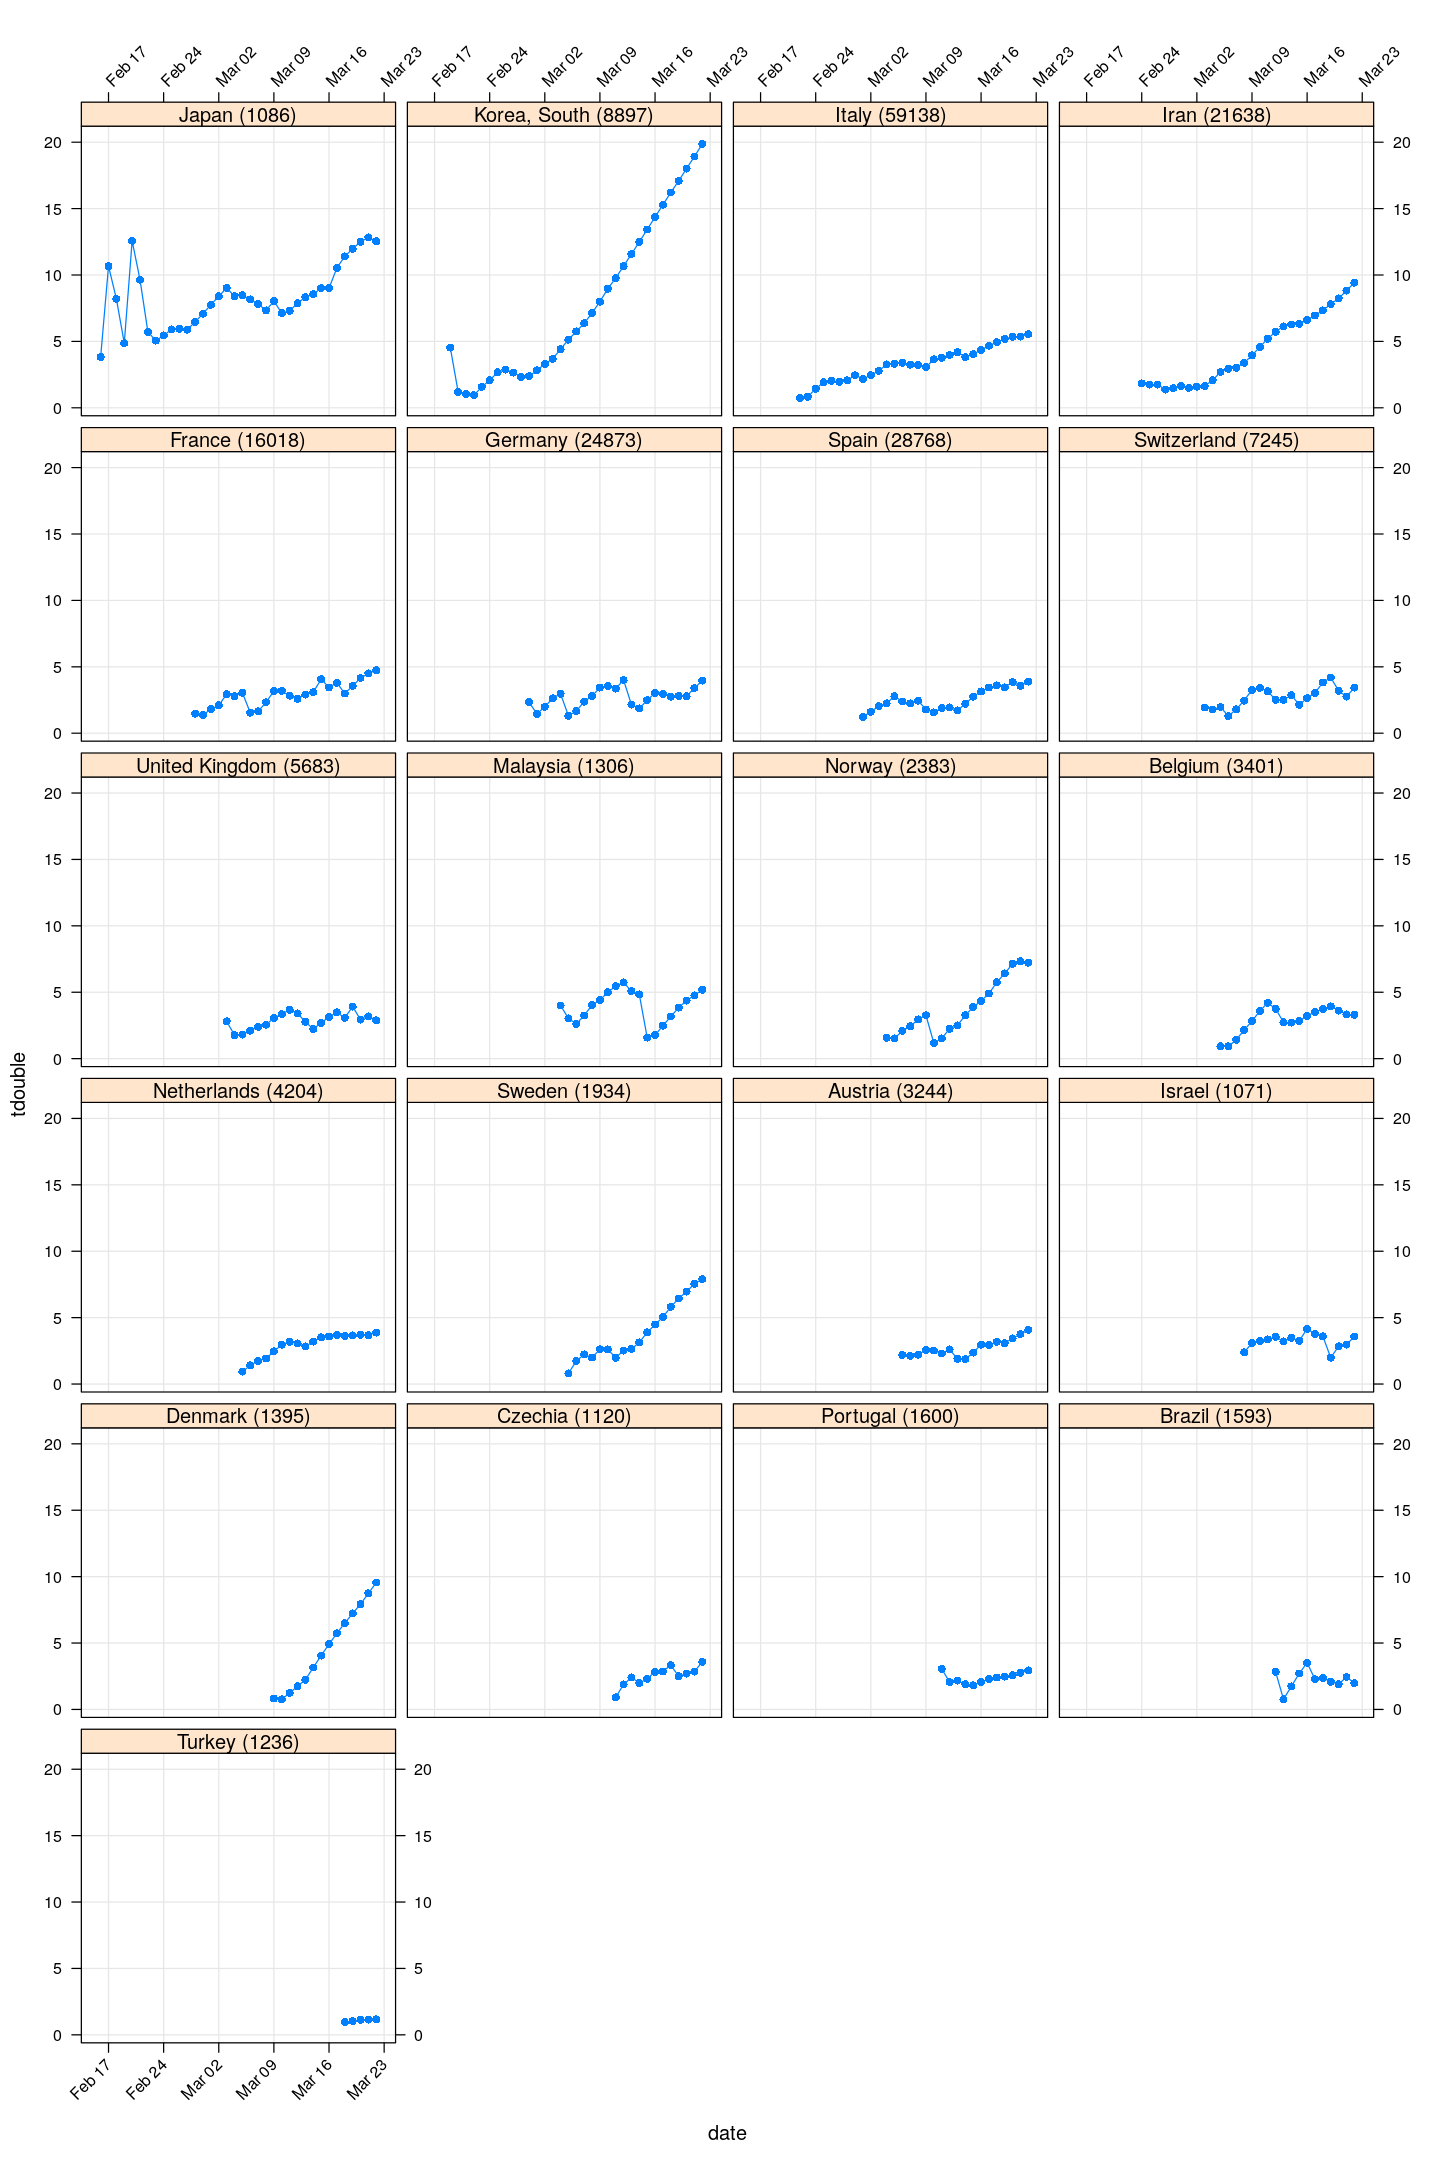
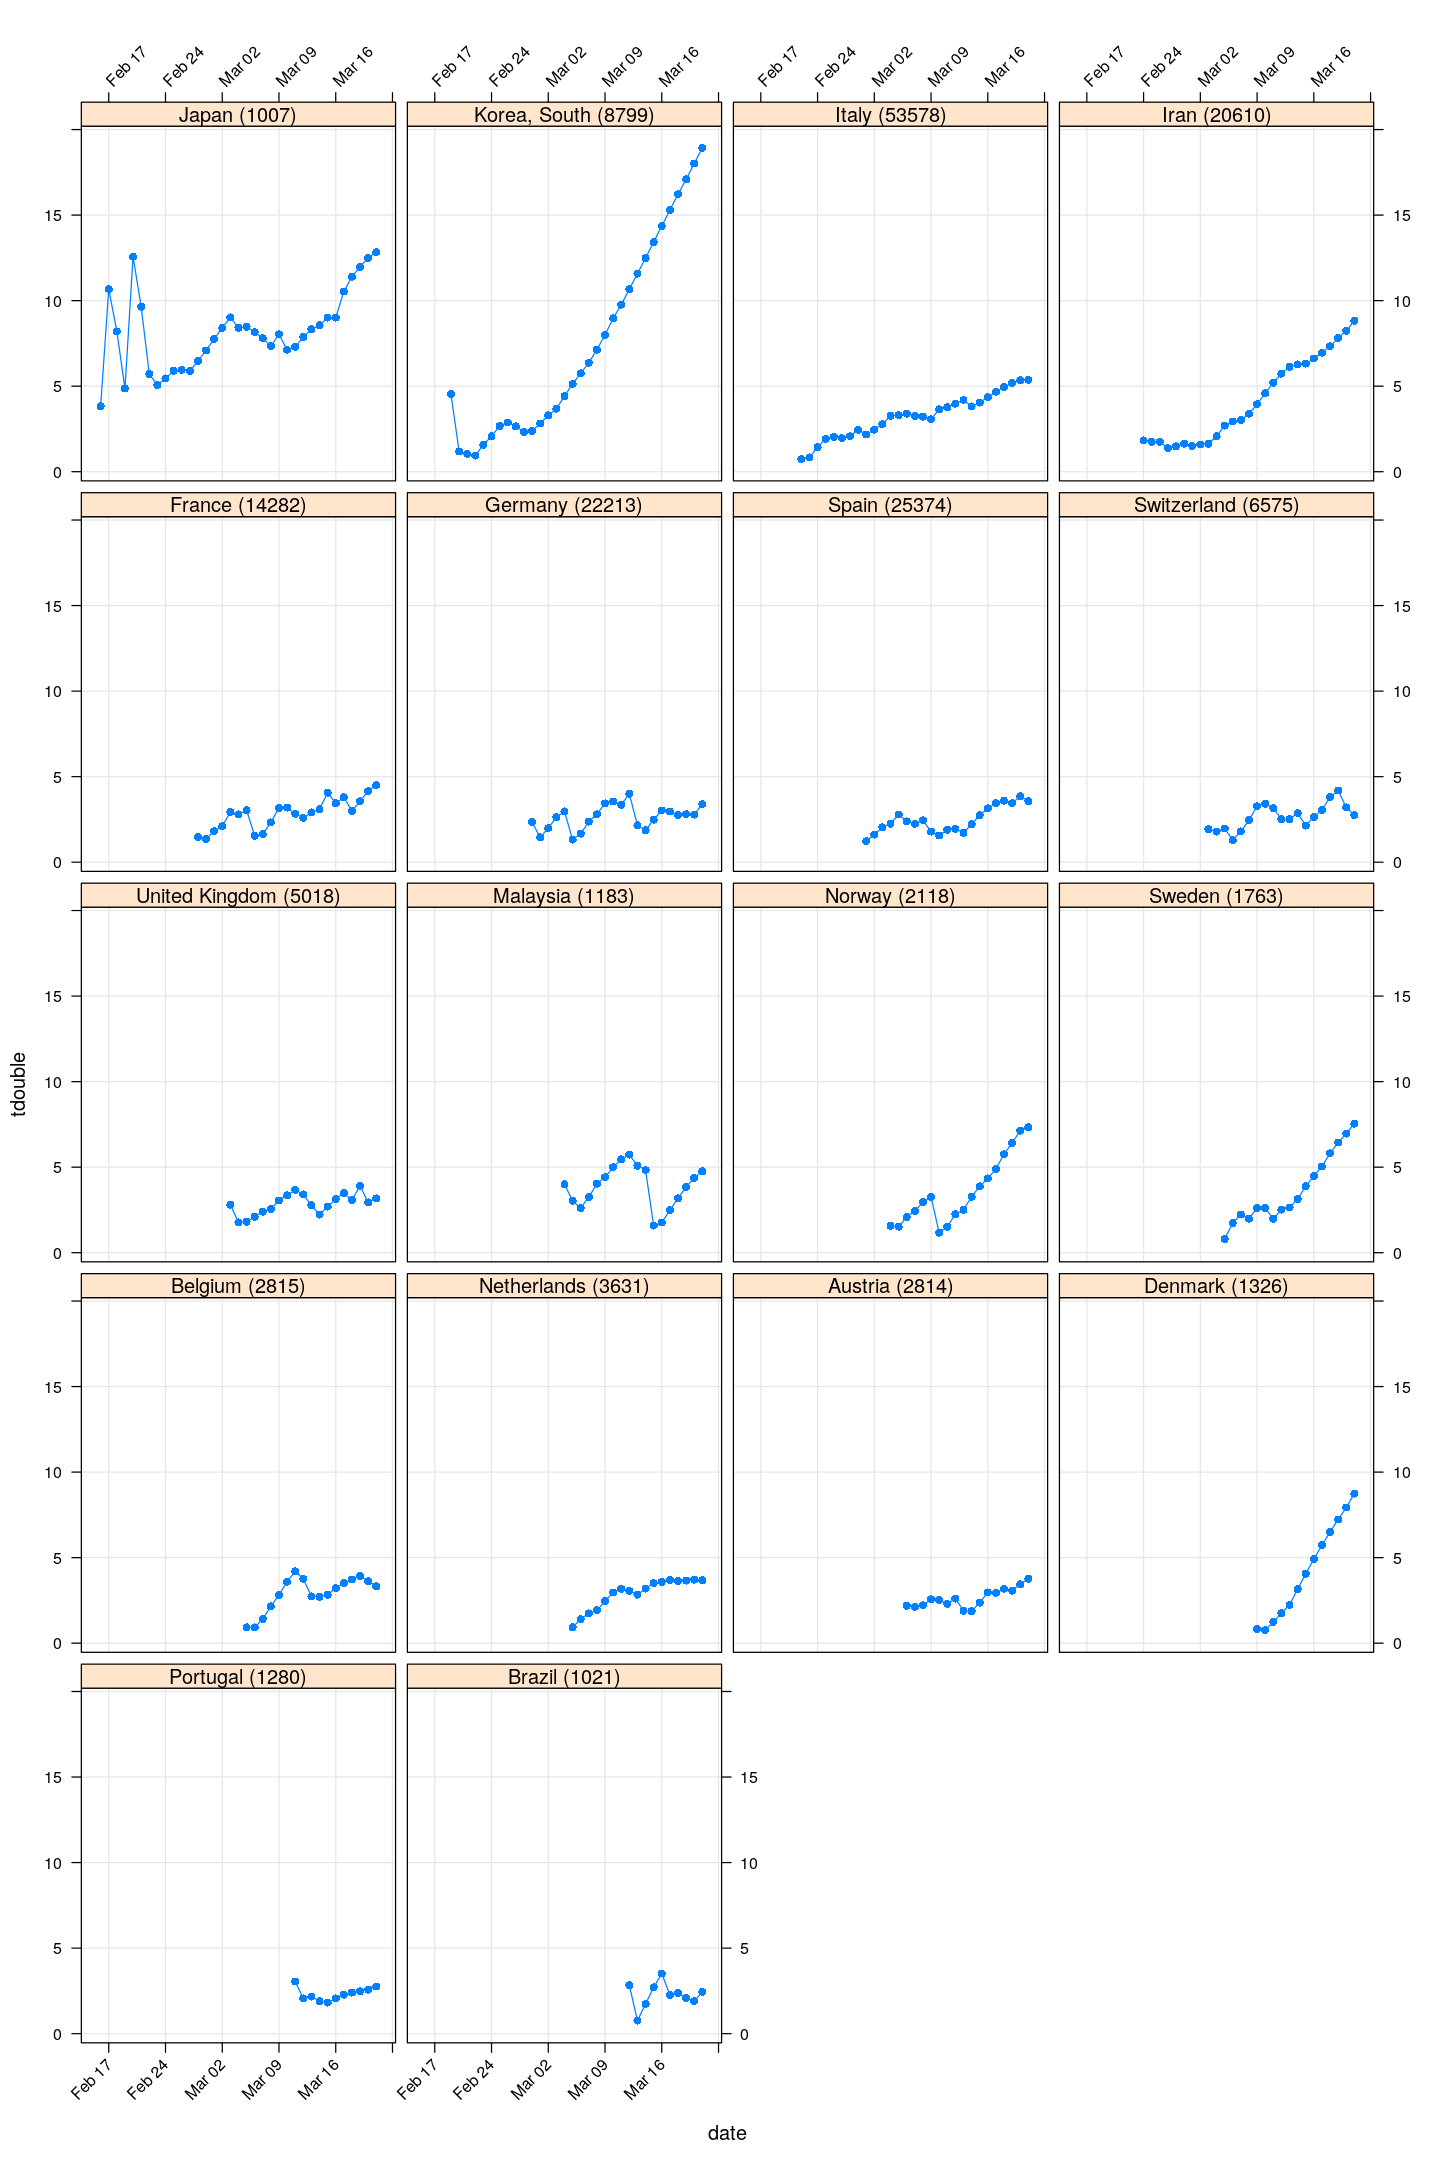
add highlight style

diff --git a/assets/styles/rouge.css b/assets/styles/rouge.css
@@ -1,0 +1,209 @@
+.highlight table td { padding: 5px; }
+.highlight table pre { margin: 0; }
+.highlight .cm {
+  color: #999988;
+  font-style: italic;
+}
+.highlight .cp {
+  color: #999999;
+  font-weight: bold;
+}
+.highlight .c1 {
+  color: #999988;
+  font-style: italic;
+}
+.highlight .cs {
+  color: #999999;
+  font-weight: bold;
+  font-style: italic;
+}
+.highlight .c, .highlight .cd {
+  color: #999988;
+  font-style: italic;
+}
+.highlight .err {
+  color: #a61717;
+  background-color: #e3d2d2;
+}
+.highlight .gd {
+  color: #000000;
+  background-color: #ffdddd;
+}
+.highlight .ge {
+  color: #000000;
+  font-style: italic;
+}
+.highlight .gr {
+  color: #aa0000;
+}
+.highlight .gh {
+  color: #999999;
+}
+.highlight .gi {
+  color: #000000;
+  background-color: #ddffdd;
+}
+.highlight .go {
+  color: #888888;
+}
+.highlight .gp {
+  color: #555555;
+}
+.highlight .gs {
+  font-weight: bold;
+}
+.highlight .gu {
+  color: #aaaaaa;
+}
+.highlight .gt {
+  color: #aa0000;
+}
+.highlight .kc {
+  color: #000000;
+  font-weight: bold;
+}
+.highlight .kd {
+  color: #000000;
+  font-weight: bold;
+}
+.highlight .kn {
+  color: #000000;
+  font-weight: bold;
+}
+.highlight .kp {
+  color: #000000;
+  font-weight: bold;
+}
+.highlight .kr {
+  color: #000000;
+  font-weight: bold;
+}
+.highlight .kt {
+  color: #445588;
+  font-weight: bold;
+}
+.highlight .k, .highlight .kv {
+  color: #000000;
+  font-weight: bold;
+}
+.highlight .mf {
+  color: #009999;
+}
+.highlight .mh {
+  color: #009999;
+}
+.highlight .il {
+  color: #009999;
+}
+.highlight .mi {
+  color: #009999;
+}
+.highlight .mo {
+  color: #009999;
+}
+.highlight .m, .highlight .mb, .highlight .mx {
+  color: #009999;
+}
+.highlight .sb {
+  color: #d14;
+}
+.highlight .sc {
+  color: #d14;
+}
+.highlight .sd {
+  color: #d14;
+}
+.highlight .s2 {
+  color: #d14;
+}
+.highlight .se {
+  color: #d14;
+}
+.highlight .sh {
+  color: #d14;
+}
+.highlight .si {
+  color: #d14;
+}
+.highlight .sx {
+  color: #d14;
+}
+.highlight .sr {
+  color: #009926;
+}
+.highlight .s1 {
+  color: #d14;
+}
+.highlight .ss {
+  color: #990073;
+}
+.highlight .s {
+  color: #d14;
+}
+.highlight .na {
+  color: #008080;
+}
+.highlight .bp {
+  color: #999999;
+}
+.highlight .nb {
+  color: #0086B3;
+}
+.highlight .nc {
+  color: #445588;
+  font-weight: bold;
+}
+.highlight .no {
+  color: #008080;
+}
+.highlight .nd {
+  color: #3c5d5d;
+  font-weight: bold;
+}
+.highlight .ni {
+  color: #800080;
+}
+.highlight .ne {
+  color: #990000;
+  font-weight: bold;
+}
+.highlight .nf {
+  color: #990000;
+  font-weight: bold;
+}
+.highlight .nl {
+  color: #990000;
+  font-weight: bold;
+}
+.highlight .nn {
+  color: #555555;
+}
+.highlight .nt {
+  color: #000080;
+}
+.highlight .vc {
+  color: #008080;
+}
+.highlight .vg {
+  color: #008080;
+}
+.highlight .vi {
+  color: #008080;
+}
+.highlight .nv {
+  color: #008080;
+}
+.highlight .ow {
+  color: #000000;
+  font-weight: bold;
+}
+.highlight .o {
+  color: #000000;
+  font-weight: bold;
+}
+.highlight .w {
+  color: #bbbbbb;
+}
+.highlight {
+  background-color: #f8f8f8;
+}

diff --git a/_layouts/default.html b/_layouts/default.html
@@ -12,6 +12,8 @@
 	integrity="sha384-Vkoo8x4CGsO3+Hhxv8T/Q5PaXtkKtu6ug5TOeNV6gBiFeWPGFN9MuhOf23Q9Ifjh"
 	crossorigin="anonymous">
 
+  <link rel="stylesheet" href="/assets/styles/rouge.css">
+
   <style>
     !h1.title { text-align: center; }
     !p.author { text-align: center; }
@@ -25,7 +27,6 @@
       <div class="container-sm">
 	<nav>
 	  <a href="/">Home</a>
-	  <a href="/blog/">Blog</a>
 	</nav>
 	<header>
 	  <h1 class="title">{{ page.title }}</h1>

diff --git a/covid-19/doubling.md b/covid-19/doubling.md
@@ -1,5 +1,5 @@
 ---
-layout: post
+layout: default
 title: 'Doubling times of COVID-19 cases'
 author: Deepayan Sarkar
 ---
@@ -9,7 +9,7 @@ author: Deepayan Sarkar
 
 Is "social distancing" working in your country? How is it doing
 compared to other countries? How long will it take for the number of
-cases to reach 50,000? Or 100,000?
+cases to reach 50,000? Or 100,000? Or a million?
 
 This is an attempt to summarize how successfully various countries /
 regions are containing the spread COVID-19, based on a very simple
@@ -30,10 +30,10 @@ to experiment with it.
 Executive summary: In most countries, the number of cases double every
 3 to 5 days. This means that if you have, say, 1000 cases today, you
 will have 50,000 cases in around 3 weeks from today, and a million
-cases in one and a half months. Unless the doubling increases time
+cases in one and a half months. Unless the doubling time increases
 soon.
 
-For more substantial data-driven analysis, see
+For more substantive data-driven analysis, see
 [here](https://medium.com/@tomaspueyo/coronavirus-act-today-or-people-will-die-f4d3d9cd99ca)
 and
 [here](https://medium.com/@tomaspueyo/coronavirus-the-hammer-and-the-dance-be9337092b56).
@@ -52,7 +52,7 @@ if (!file.exists(TARGET))
                   destfile = TARGET)
 ```
 
-This version was last updated using data downloaded on 2020-03-23.
+This version was last updated using data downloaded on 2020-03-22.
 
 
 Next, read in data:

diff --git a/index.md b/index.md
@@ -1,0 +1,12 @@
+---
+title: Random Stuff
+author: Deepayan Sarkar
+---
+
+
+For now, this site only contains
+
+- [Some analysis of the ongoing COVID-19 pandemic](covid-19/doubling)
+
+
+
